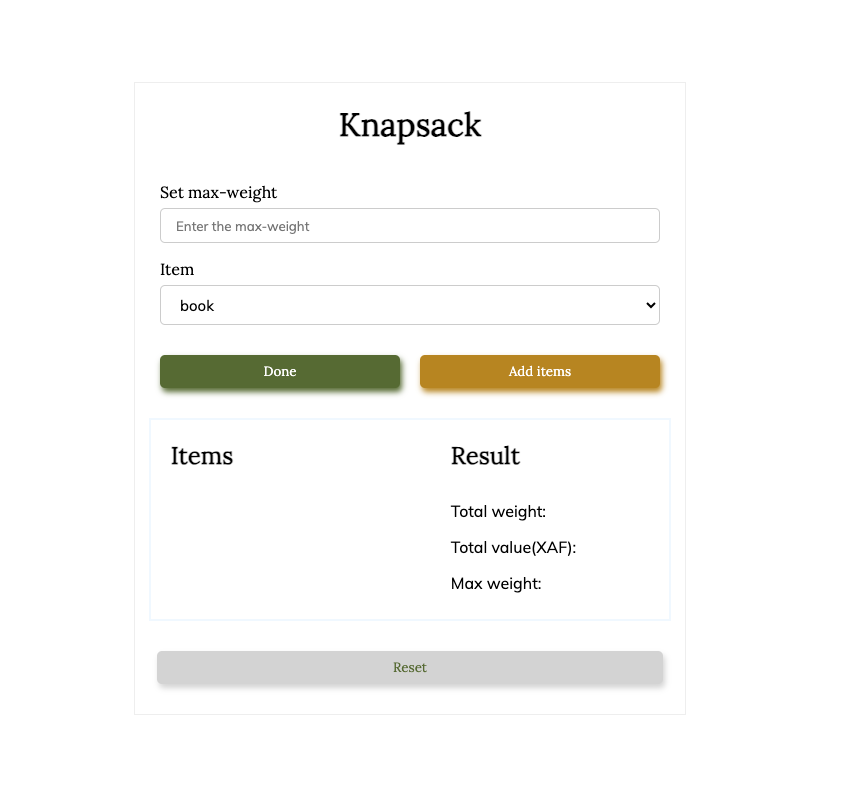
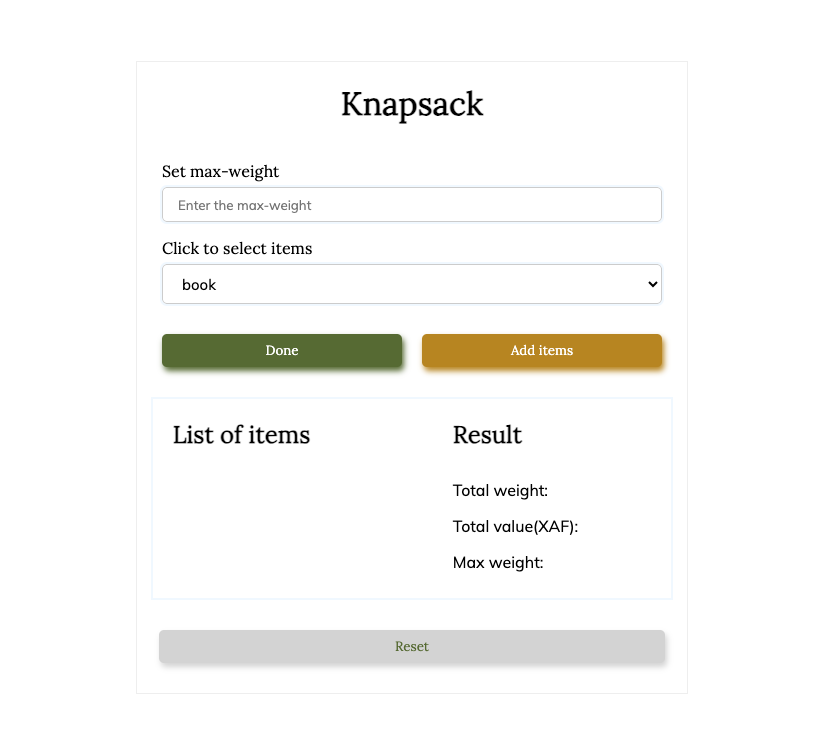
change image on readme

diff --git a/assets/style/style.css b/assets/style/style.css
@@ -43,6 +43,7 @@ h1 {
   font-family: Mulish, sans-serif;
   height: 35px;
   margin: 0 auto;
+  outline: 2px solid #f0f8ff;
   padding: 5px 15px;
   width: 500px;
 }
@@ -56,6 +57,7 @@ h1 {
   font-size: 15px;
   height: 40px;
   margin: 0 auto;
+  outline: 2px solid #f0f8ff;
   padding: 5px 15px;
   width: 500px;
 }

diff --git a/README.md b/README.md
@@ -1,7 +1,7 @@
 # JS Knapsack
 Given a knapsack with a certain weight capacity, fill it with loot from a list of items to achieve the highest value possible.
 ## App
-![sac](assets/image/sack.png)
+![sac](assets/imag/sack.png)
 ### Built with
 - HTML
 - CSS
@@ -27,4 +27,4 @@ Get a local copy of this project by following the steps below:
 We welcome contributions, issues and feature request.
 Feel free to check the [issues page](https://github.com/Nathanael-Lontsi/knapsac/issues)
 ## :memo :License
-This project is [rebaseacademy](./LICENSE) licensed.
+This project is [Nathanael-Lontsi](./LICENSE) licensed.
